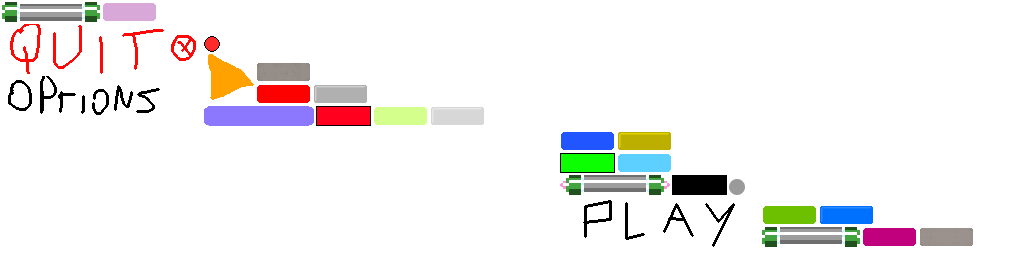
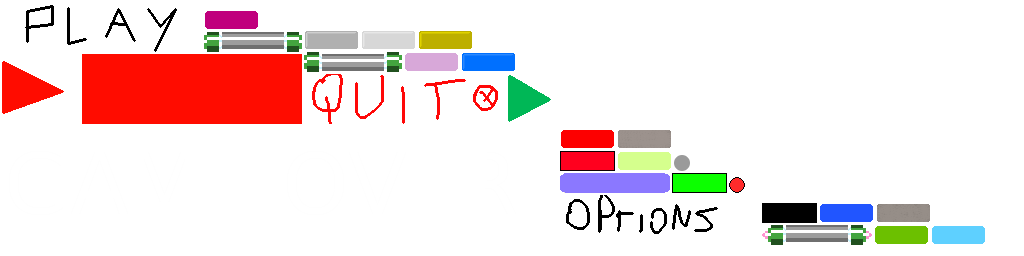
Update cursor texture

Changed region(s): [[0.0, 0.0, 0.5625, 0.5], [0.5312, 0.5, 0.9688, 0.9688]]

diff --git a/core/src/menu/MainMenuScreen.java b/core/src/menu/MainMenuScreen.java
@@ -33,12 +33,13 @@ public class MainMenuScreen extends ScreenAdapter{
 		
 		menuButtons = new MenuButton[] {playButton, optionsButton, quitButton};
 		
-		cursor = new Cursor(playButton.getX() - 70, playButton.getY(), 3, 100);
+		cursor = new Cursor(playButton.getX() - 90, playButton.getY() - 10, 3, 100);
 		
+		stage.addActor(cursor);	
 		stage.addActor(playButton);
 		stage.addActor(optionsButton);
-		stage.addActor(quitButton);		
-		stage.addActor(cursor);	
+		stage.addActor(quitButton);	
+
 		
 		for(Actor actors : stage.getActors()){
 			SequenceAction seq = new SequenceAction();
@@ -49,7 +50,6 @@ public class MainMenuScreen extends ScreenAdapter{
 			ParallelAction par = new ParallelAction();
 			par.addAction(seq);
 			par.addAction(Actions.fadeIn(0.4f));
-
 			
 			actors.addAction(par);
 		}
@@ -79,11 +79,8 @@ public class MainMenuScreen extends ScreenAdapter{
 			
 			if(menuButtons[index] == quitButton)
 				Gdx.app.exit();	
+		}			
 			
-		}
-		
-
-				
 		stage.act();
 		stage.draw();	
 	}

diff --git a/core/src/com/jashlaviu/jashanoid/TextureLoader.java b/core/src/com/jashlaviu/jashanoid/TextureLoader.java
@@ -12,7 +12,7 @@ public class TextureLoader{
 	public static TextureRegion bonus_01, bonus_02, bonus_03, bonus_04, bonus_05, bonus_06, bonus_07;
 	public static TextureRegion brick_01, brick_02, brick_03, brick_11, brick_12, brick_21, ball_02;
 	public static TextureRegion hearth, platform_02, platform_03, platform_04, platform_05;
-	public static TextureRegion game_over, cursor;
+	public static TextureRegion game_over, cursor, cursor_2;
 	public static TextureRegion button_play, button_quit, button_options;
 	
 	public TextureLoader(){
@@ -47,6 +47,7 @@ public class TextureLoader{
 		block3 = load("block3");	
 		
 		cursor = load("menu_cursor");
+		cursor_2 = load("cursor", 2);
 		
 		button_play = load("button_play");
 		button_quit = load("button_quit");

diff --git a/core/src/menu/Cursor.java b/core/src/menu/Cursor.java
@@ -11,7 +11,7 @@ public class Cursor extends ActorJashanoid{
 	private float initialX, initialY;
 	
 	public Cursor(float x, float y, int maxButons, int buttonHeight) {
-		super(TextureLoader.cursor);
+		super(TextureLoader.cursor_2);
 		initialX = x;
 		initialY = y;
 		setPosition(initialX, initialY);
